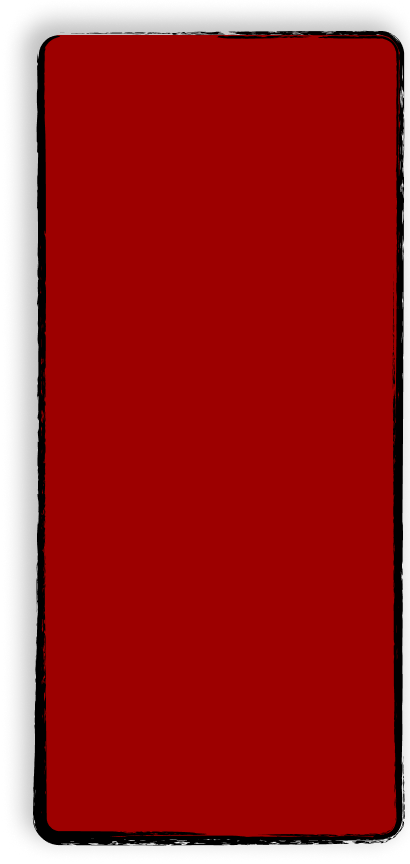
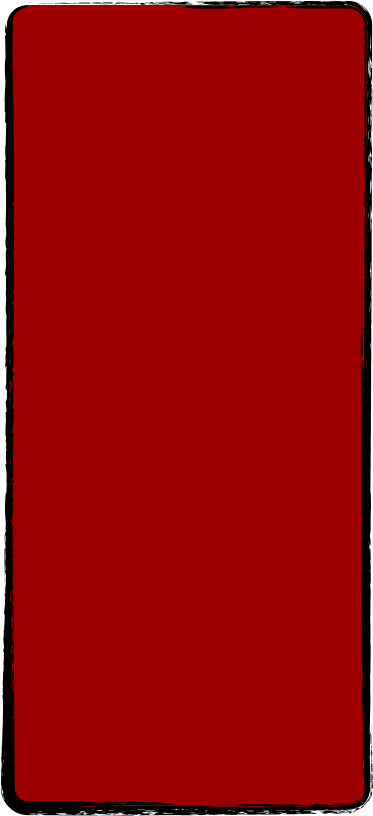
update roll history styles

Changed region(s): [[0.0, 0.0, 1.0, 1.0]]

diff --git a/src/components/Roller/RollHistory/RollHistory.css b/src/components/Roller/RollHistory/RollHistory.css
@@ -1,11 +1,10 @@
 .roll_history__section {
-  background: #7e0000;
+  background: url('../../../assets/images/roll_history_background.png')
+    center/contain no-repeat;
   border-radius: 15px;
-  margin: 75px 0 0 0;
-  width: 350px;
-  height: 770px;
-  border: 2px solid rgb(0, 0, 0);
-  box-shadow: 0 8px 32px rgba(0, 0, 0, 0.3);
+  margin: 75px 75px 0 0;
+  width: 400px;
+  height: 800px;
   display: flex;
   flex-direction: column;
   overflow: hidden;
@@ -13,18 +12,12 @@
 
 .roll_history__header {
   display: flex;
-  flex-direction: column;
   align-items: center;
   padding: 30px 30px 20px 30px;
   flex-shrink: 0;
-}
-
-.roll_history__header_top {
-  display: flex;
   align-items: center;
   justify-content: center;
   gap: 10px;
-  margin-bottom: 10px;
 }
 
 .roll_history__title {
@@ -40,10 +33,10 @@
   display: flex;
   flex-direction: column;
   gap: 15px;
-  padding: 0 22px 40px 30px;
+  padding: 0 25px 40px 30px;
   overflow-y: auto;
   flex: 1;
-  margin: 0 2px 2px 2px;
+  margin: 0 15px 18px 15px;
   border-radius: 0 0 13px 13px;
   /* Firefox scrollbar styling */
   scrollbar-width: thin;

diff --git a/src/components/Roller/RollHistory/RollHistory.jsx b/src/components/Roller/RollHistory/RollHistory.jsx
@@ -31,17 +31,16 @@ function RollHistory({
   return (
     <div className="roll_history__section">
       <div className="roll_history__header">
-        <div className="roll_history__header_top">
-          <img
-            src={trashImage}
-            alt="clear history"
-            className="history_trash"
-            onClick={handleClearHistory}
-            style={{ cursor: 'pointer' }}
-          />
-          <h2 className="roll_history__title">Roll History</h2>
-        </div>
+        <img
+          src={trashImage}
+          alt="clear history"
+          className="history_trash"
+          onClick={handleClearHistory}
+          style={{ cursor: 'pointer' }}
+        />
+        <h2 className="roll_history__title">Roll History</h2>
       </div>
+
       <div className="roll_history__entries">
         {isLoading ? (
           <div className="roll_history__loading">Loading history...</div>